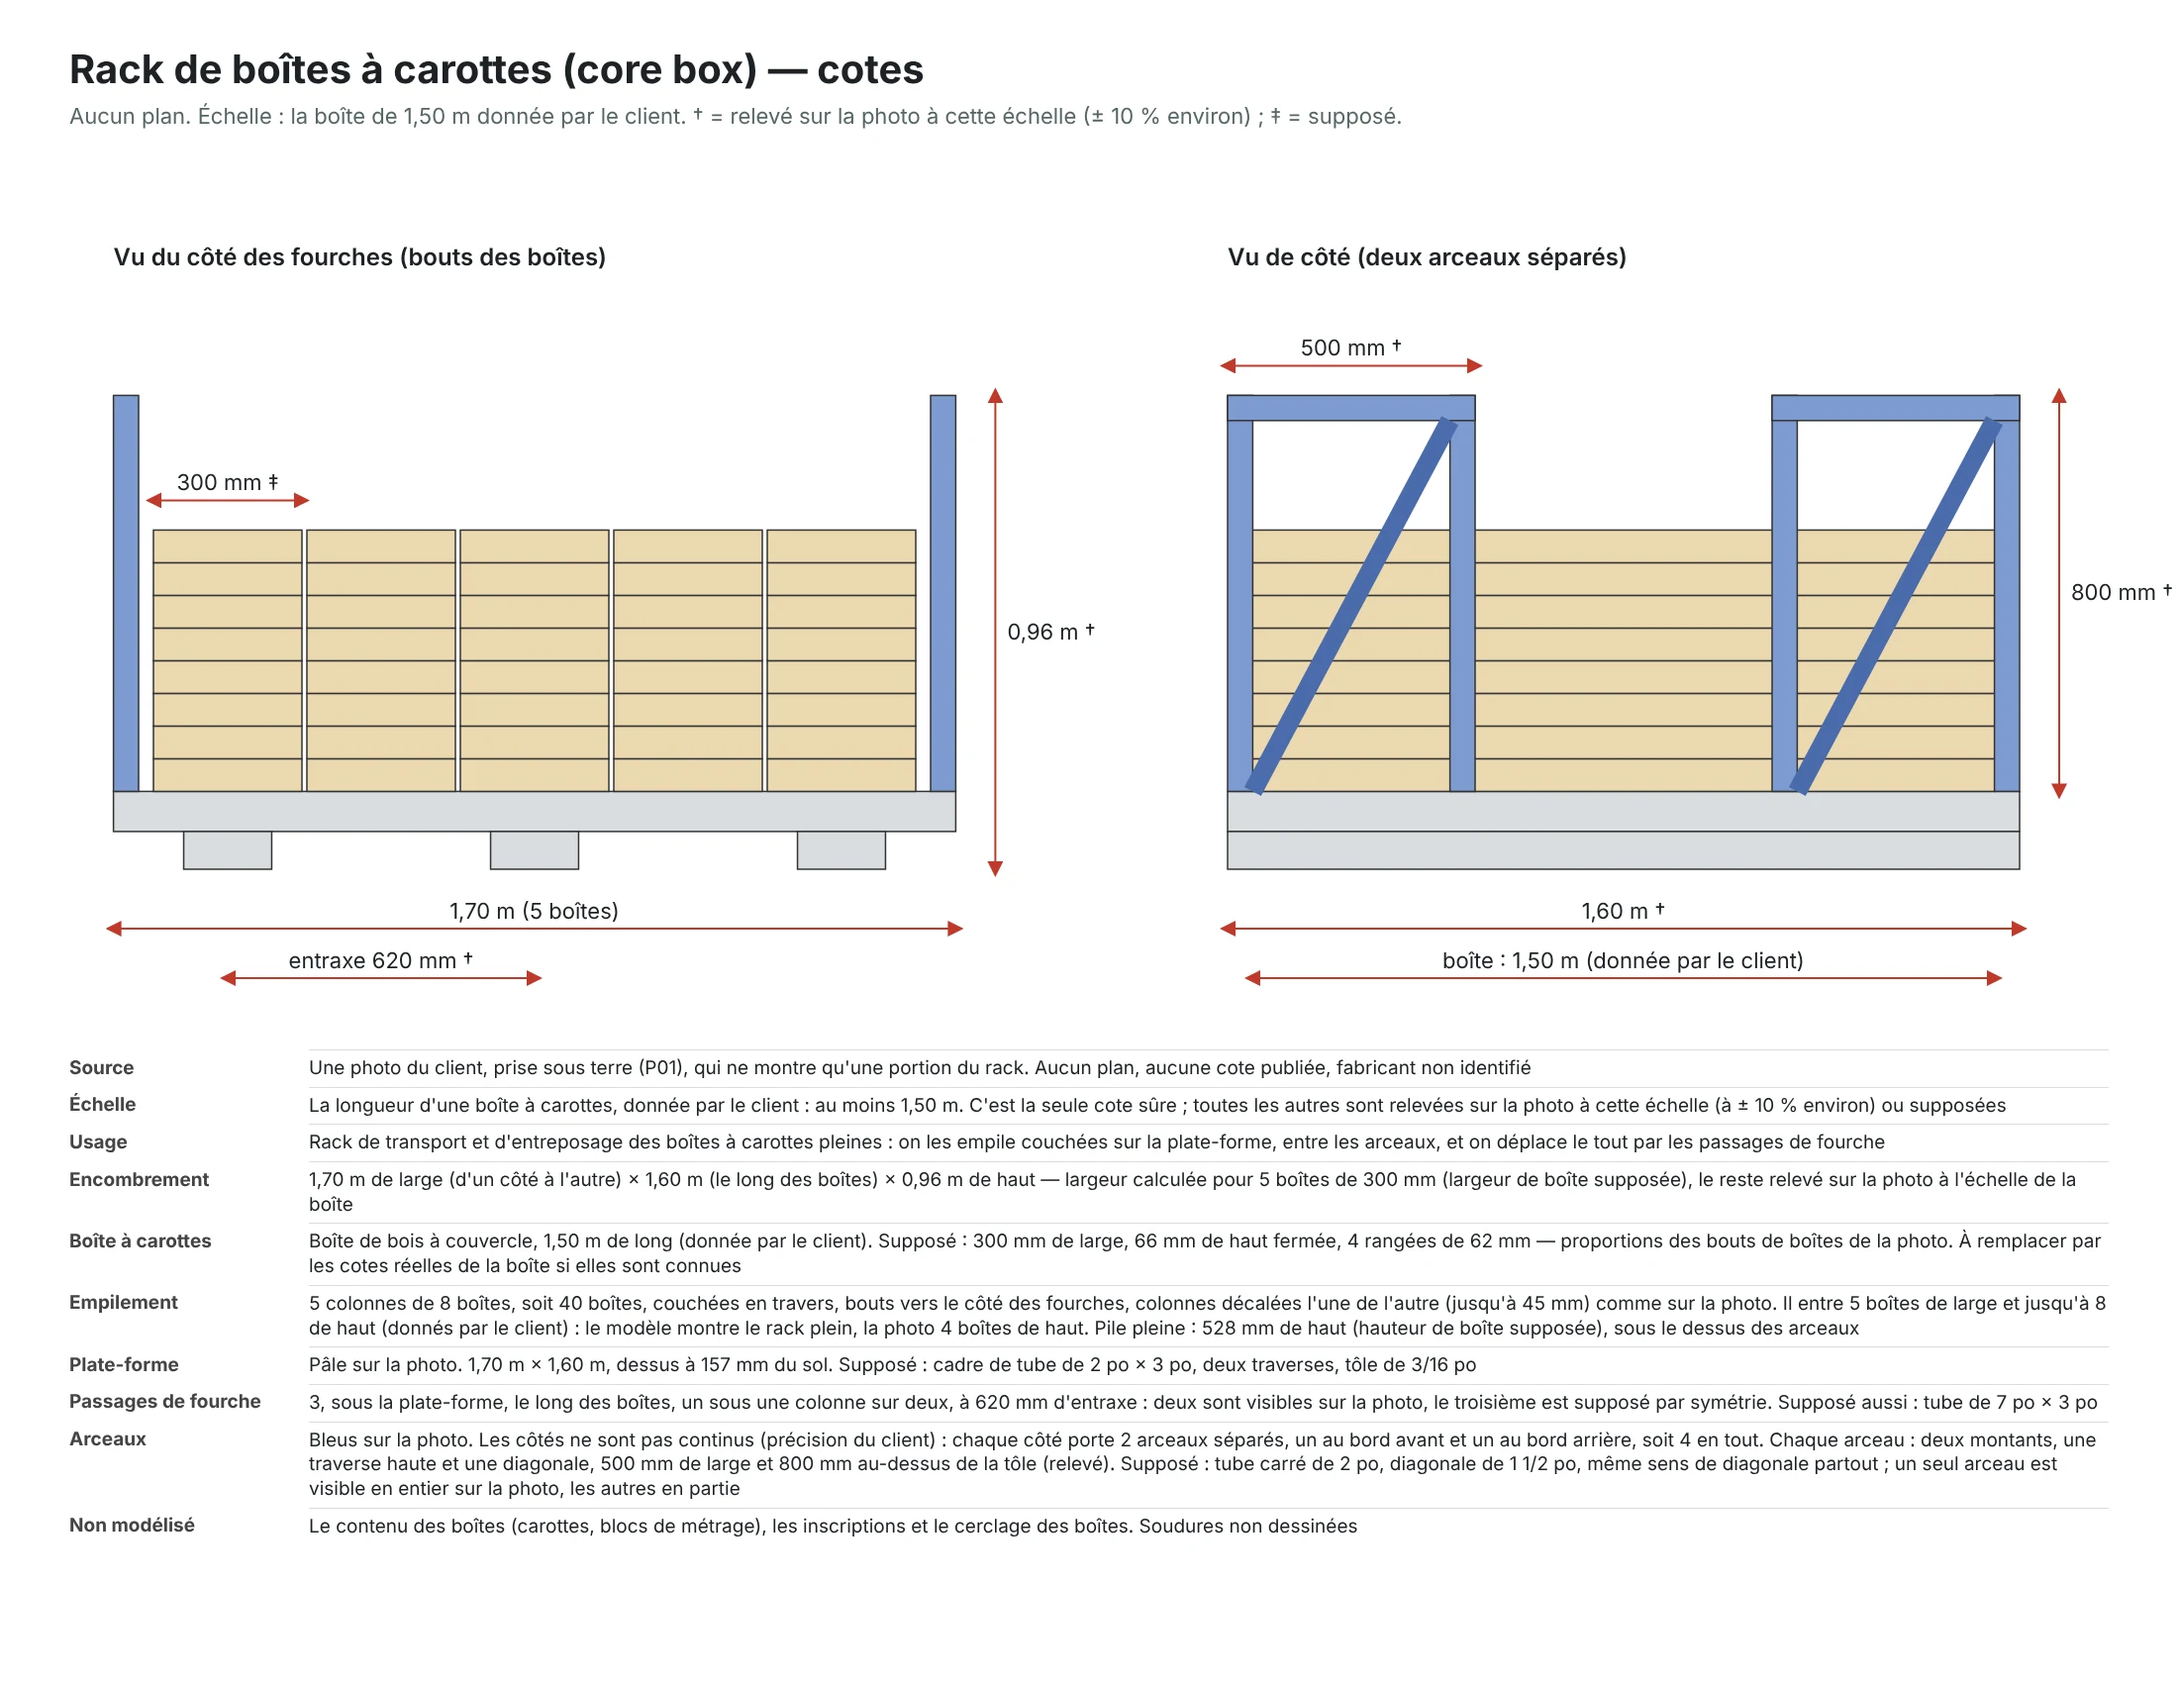
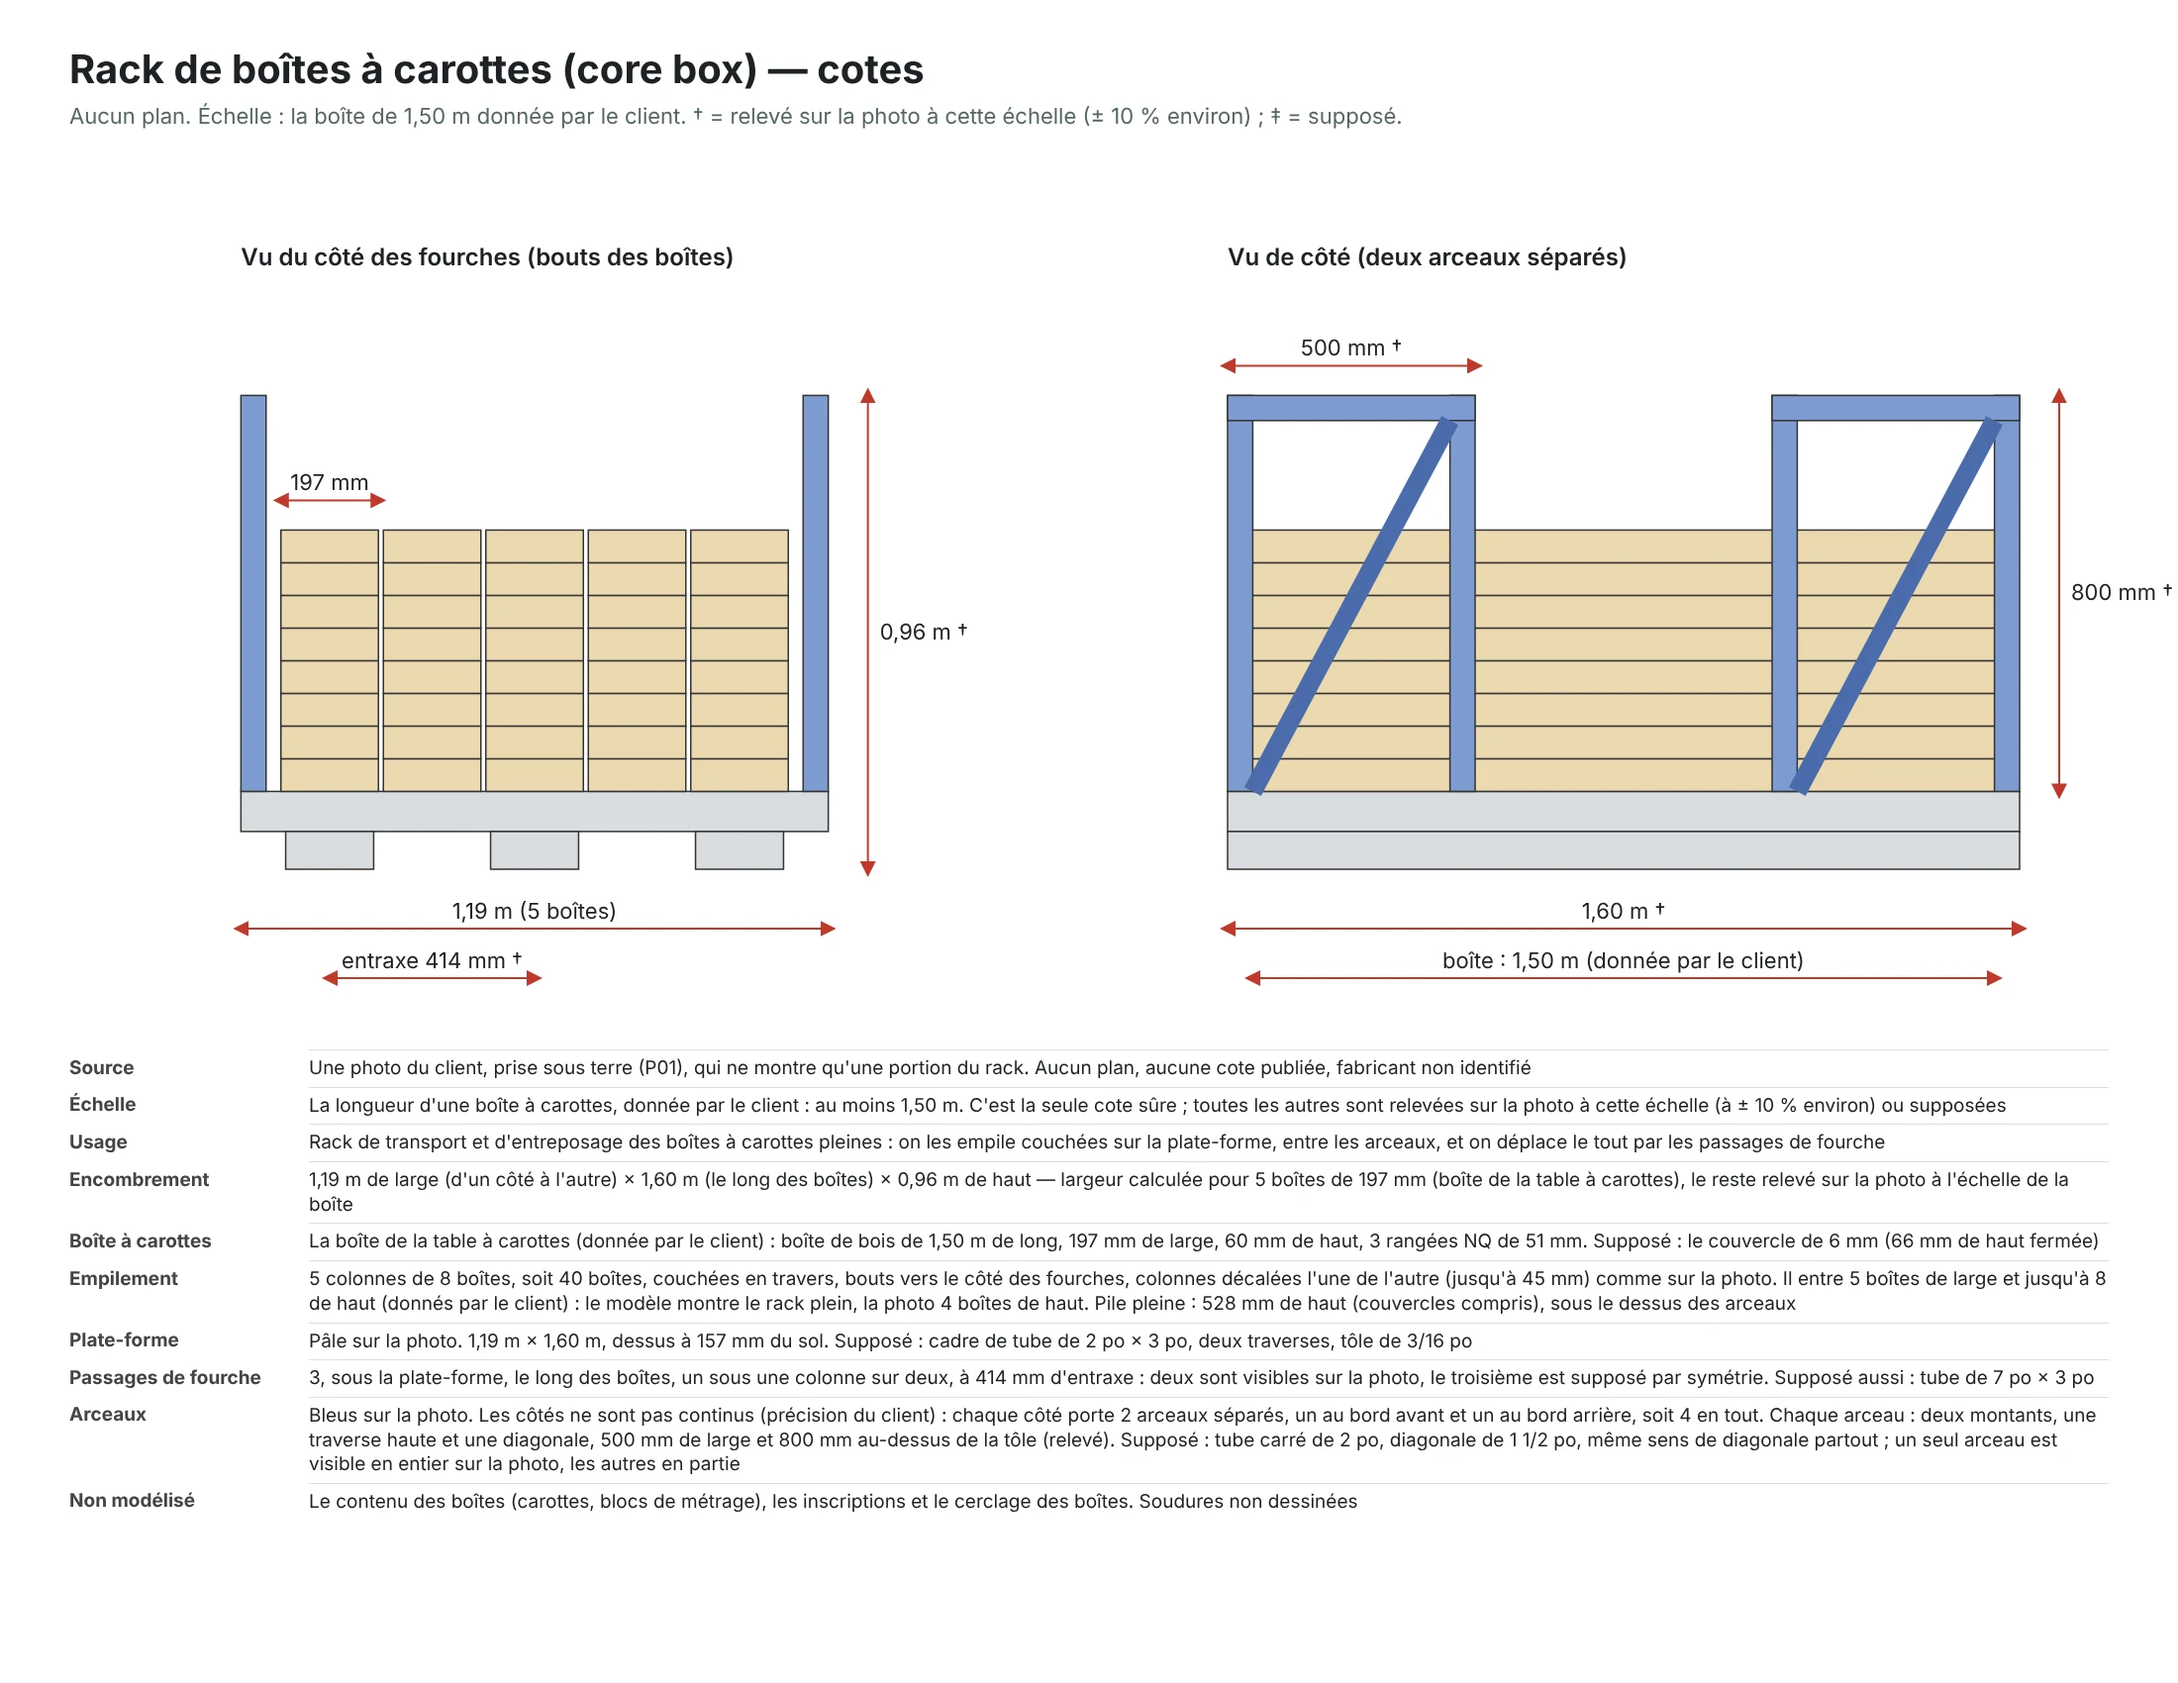
Rack de boîtes à carottes : la boîte de la table à carottes (197 × 60 mm, 3 rangées NQ), rack de 1,19 m de large
Demande du client : « prend celles qu'on utilise sur la table à core ». Fiche, page des cotes P02 et README refaits.

Claude-Session: https://claude.ai/code/session_015N4Wsr9eWnHQ1buqxLv1nh

diff --git a/src/models/rack-core-box/index.js b/src/models/rack-core-box/index.js
@@ -17,8 +17,8 @@
 // 0,5 m de large, passages de fourche sous la plate-forme (deux sont visibles,
 // sous la première et la troisième colonne).
 //
-// Supposé : la largeur et la hauteur d'une boîte (boîte de bois à quatre
-// rangées), les sections des tubes, l'épaisseur de la tôle, le sens de la
+// Boîte : celle de la table à carottes de la visite (donnée par le client le
+// 2026-11-25). Supposé : les sections des tubes, l'épaisseur de la tôle, le sens de la
 // diagonale des arceaux que la photo ne montre pas en entier, le troisième
 // passage de fourche (sous la cinquième colonne, par symétrie).
 //
@@ -32,16 +32,20 @@ export const IN = 25.4;
 
 // ------------------------------------------------------------------ cotes (mm)
 
-/** Boîte à carottes de bois, à quatre rangées. Longueur donnée par le client ; le reste est supposé. */
+/**
+ * Boîte à carottes de bois : la boîte de la table à carottes de la visite (demande du client, 2026-11-25 : « prend celles qu'on
+ * utilise sur la table à core ») : 1,50 m de long, 197 mm de large, 60 mm de haut, 3 rangées NQ (canal de 51 mm, lattes de 9 mm,
+ * côtés de 13 mm). Le couvercle reste supposé.
+ */
 export const BOITE = {
   long: 1500, // donnée par le client (minimum)
-  large: 300, // supposée, d'après les proportions des bouts sur la photo
-  haut: 60, // supposée (sans le couvercle)
-  rangees: 4, // supposé
-  paroi: 12, // côtés et bouts
+  large: 197, // boîte de la table à carottes : 3 × 51 + 2 × 9 + 2 × 13
+  haut: 60, // boîte de la table à carottes
+  rangees: 3, // NQ
+  paroi: 13, // côtés et bouts
   fond: 6,
   separation: 9,
-  couvercle: 6,
+  couvercle: 6, // supposé
 };
 /**
  * Empilement, rack plein : cinq colonnes côte à côte, jusqu'à huit boîtes de haut (donnés par le client ;

diff --git a/README.md b/README.md
@@ -1010,8 +1010,8 @@ pièces (numéro, quantité, page du manuel).
   photo à cette échelle : la profondeur et la hauteur (1,60 et 0,96 m), la hauteur
   et la largeur des arceaux, les deux passages de fourche visibles, les 4 boîtes de haut de la photo.
   Donné par le client : 5 boîtes de large et jusqu'à 8 de haut (rack plein de
-  40 boîtes au modèle, 1,70 m de large). Supposé : largeur (300 mm) et hauteur (66 mm fermée) de la boîte,
-  sections des tubes, tôle, sens de la diagonale des autres arceaux. La fiche et
+  40 boîtes au modèle, 1,19 m de large). Boîte : celle de la table à carottes (donnée par le client : 1,50 m ×
+  197 mm × 60 mm, 3 rangées NQ). Supposé : le couvercle, sections des tubes, tôle, sens de la diagonale des autres arceaux. La fiche et
   la page des cotes (P02) sont écrites par `tools/rack_core_box_fiche.mjs` à
   partir des cotes du modèle (`src/models/rack-core-box/index.js`).
 
